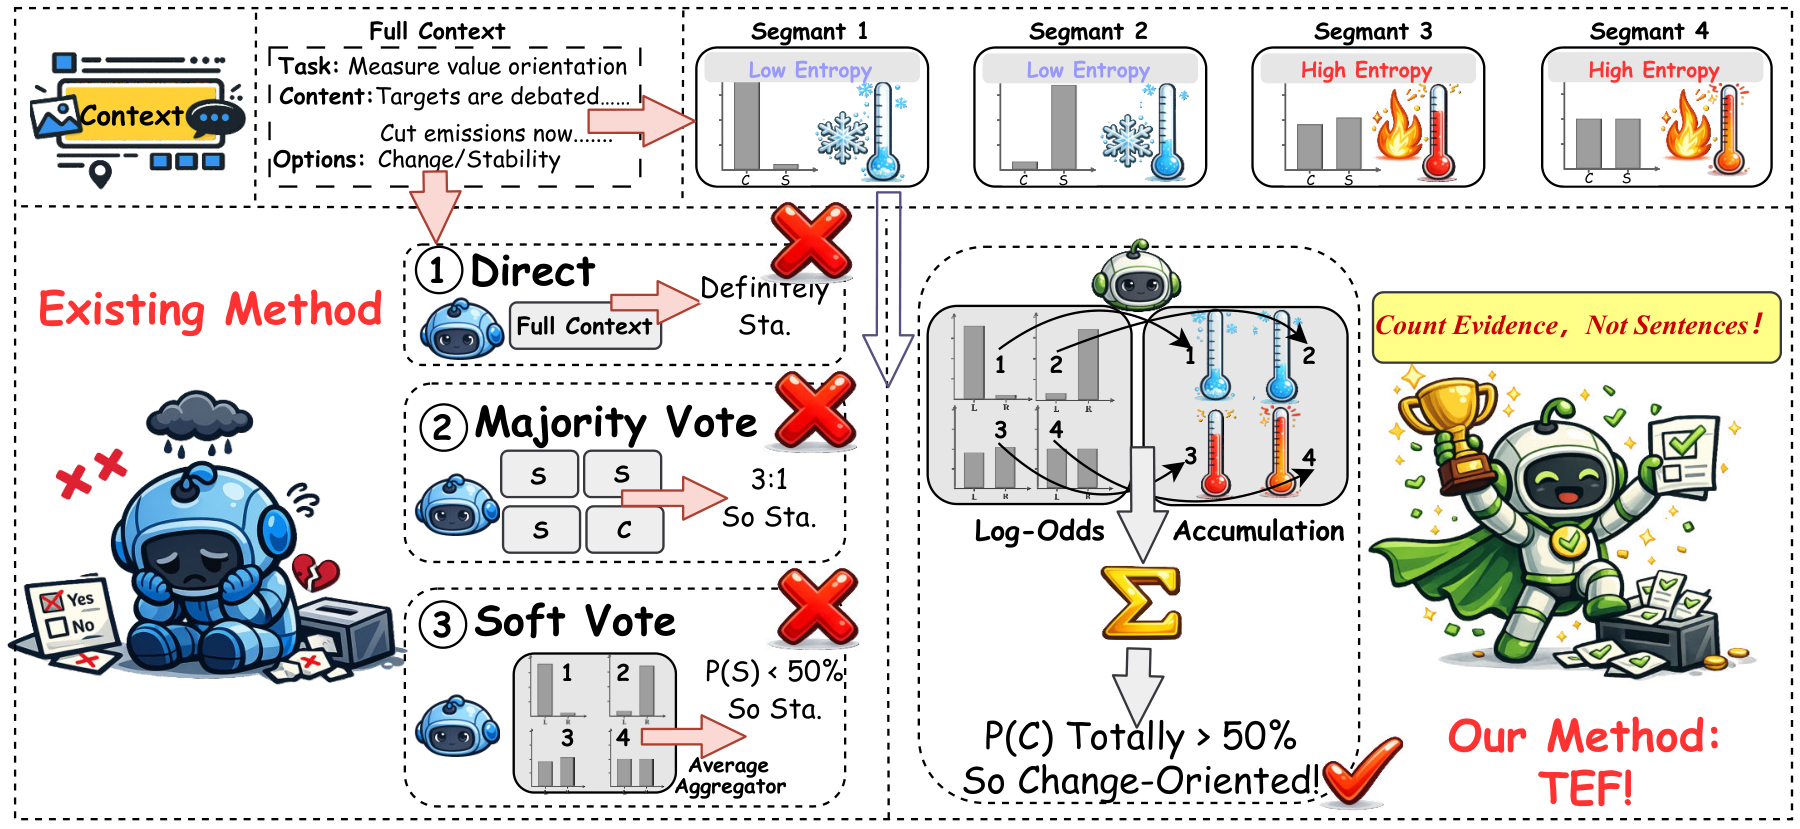
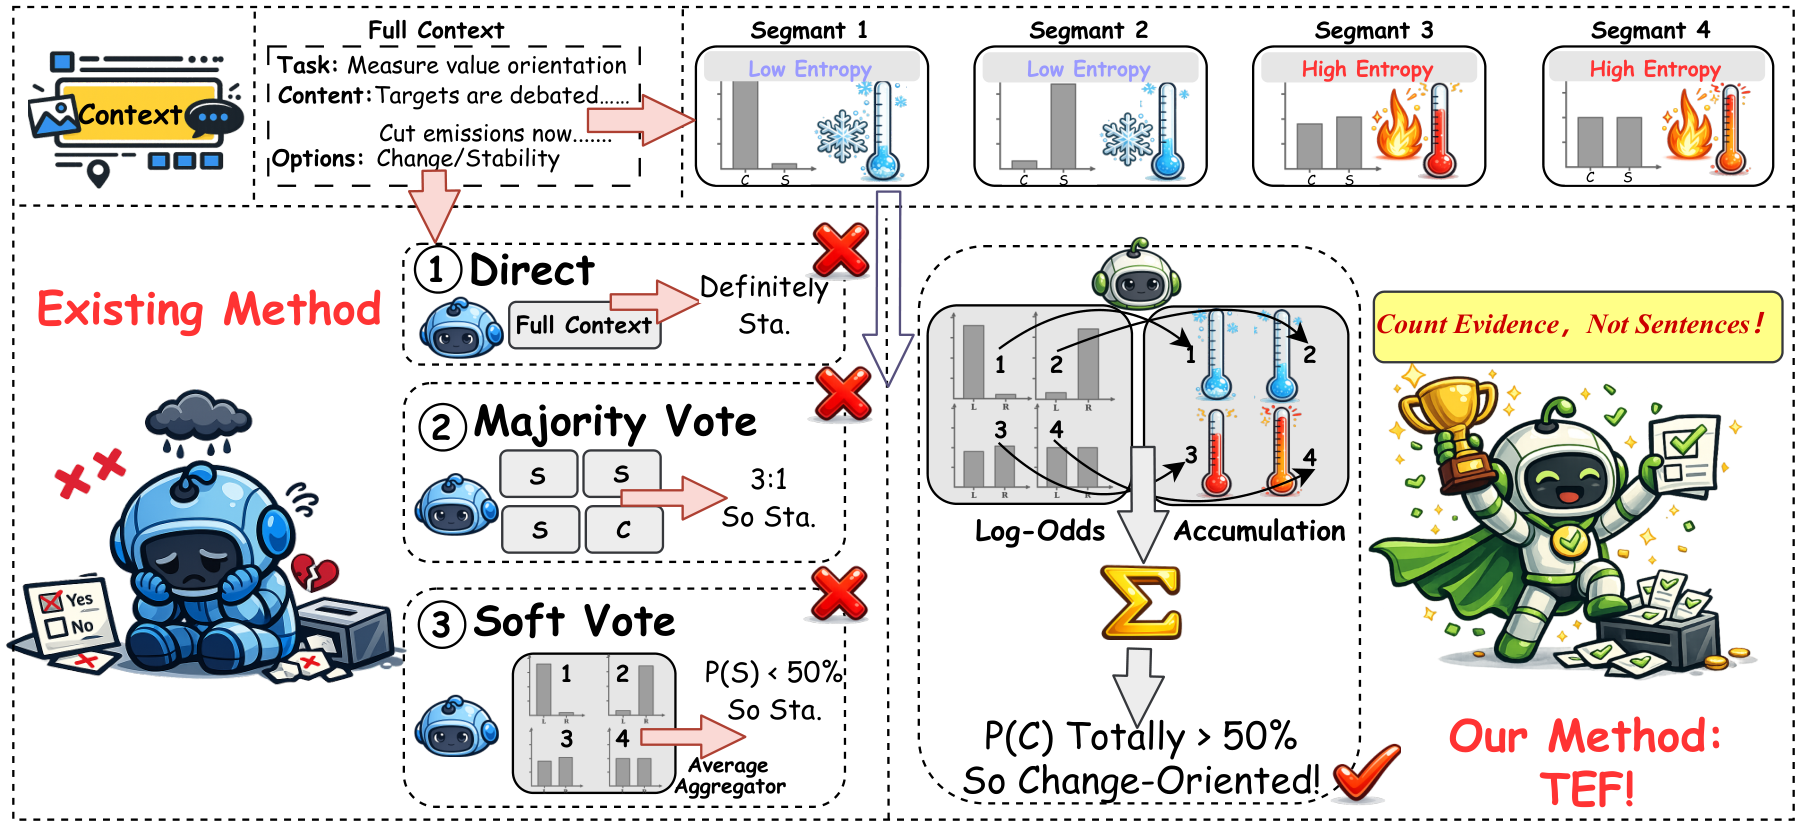
Sync README and figures with the current paper
Author list and affiliations as in the paper; venue label removed from the badges and the citation; teaser and construction figures replaced by the current versions; ablation description as in the paper.

diff --git a/README.md b/README.md
@@ -2,14 +2,13 @@
 
 # Count Evidence, Not Sentences: Tempered Evidence Fusion of LLM Judgments for Long-Text Value Measurement
 
-Yuhe Wu<sup>1,*</sup>, Rui Qian<sup>2,*</sup>, Guangyu Wang<sup>1,*</sup>, Yuran Chen<sup>3</sup>, Yujie Chen<sup>4</sup>, Jiaxin Liu<sup>1</sup>, Guang Zhang<sup>1,†</sup>
+Yuhe Wu<sup>1,*</sup>, Rui Qian<sup>2,*</sup>, Guangyu Wang<sup>1,*</sup>, Yuran Chen<sup>3</sup>, Yuanchao Zhu<sup>4</sup>, Junjie Yang<sup>5</sup>,<br>
+Zhengheng Li<sup>6</sup>, Jiulin Cai<sup>7</sup>, Tianyi Zhang<sup>8</sup>, Zihan Dong<sup>9</sup>, Jiaxin Liu<sup>1</sup>, Yujie Chen<sup>10</sup>, Guang Zhang<sup>1,†</sup>
 
-<sup>1</sup>The Hong Kong University of Science and Technology (Guangzhou) &nbsp; <sup>2</sup>Fudan University<br>
-<sup>3</sup>Dongbei University of Finance and Economics &nbsp; <sup>4</sup>The Chinese University of Hong Kong, Shenzhen
+<sup>1</sup>HKUST(GZ) &nbsp; <sup>2</sup>FDU &nbsp; <sup>3</sup>DUFE &nbsp; <sup>4</sup>UESTC &nbsp; <sup>5</sup>UMD &nbsp; <sup>6</sup>SEU &nbsp; <sup>7</sup>USTC &nbsp; <sup>8</sup>Independent &nbsp; <sup>9</sup>Georgia Tech &nbsp; <sup>10</sup>CUHK(SZ)
 
-<sup>*</sup>Equal contribution &nbsp; <sup>†</sup>Corresponding author: guangzhang@hkust-gz.edu.cn
+<sup>*</sup>Equal contribution &nbsp; <sup>†</sup>Corresponding author &nbsp; {yuhewu, guangzhang}@hkust-gz.edu.cn &nbsp; qiianruii@gmail.com
 
-[![ICASSP 2027](https://img.shields.io/badge/ICASSP%202027-Submission-1f6feb)](#citation)
 [![Dataset](https://img.shields.io/badge/Dataset-MIND-ff0080)](data/README.md)
 [![Code License](https://img.shields.io/badge/Code-MIT-2ea44f)](LICENSE)
 [![Data License](https://img.shields.io/badge/Data-CC%20BY--NC%204.0-lightgrey)](https://creativecommons.org/licenses/by-nc/4.0/)
@@ -374,8 +373,7 @@ MV and SV denote Majority Vote and Soft Vote. For each model and column, the bes
 <details>
 <summary><b>Ablation of TEF</b></summary>
 
-w/o Entropy removes the entropy weighting and keeps the log-odds sum; w/o Log-Odds replaces the log-odds by entropy-weighted
-probability averaging.
+w/o Entropy keeps only the log-odds sum; w/o Log-Odds averages entropy-weighted probabilities instead of log-odds.
 
 <table>
 <thead>
@@ -450,11 +448,11 @@ If you use TEF or MIND, please cite:
 
 ```bibtex
 @misc{wu2026count,
-  title  = {Count Evidence, Not Sentences: Tempered Evidence Fusion of {LLM} Judgments for Long-Text Value Measurement},
-  author = {Wu, Yuhe and Qian, Rui and Wang, Guangyu and Chen, Yuran and Chen, Yujie and Liu, Jiaxin and Zhang, Guang},
-  year   = {2026},
-  note   = {Submitted to IEEE International Conference on Acoustics, Speech and Signal Processing (ICASSP) 2027},
-  url    = {https://github.com/Kzczc/ICASSP2027-TEF}
+  title        = {Count Evidence, Not Sentences: Tempered Evidence Fusion of {LLM} Judgments for Long-Text Value Measurement},
+  author       = {Wu, Yuhe and Qian, Rui and Wang, Guangyu and Chen, Yuran and Zhu, Yuanchao and Yang, Junjie and
+                  Li, Zhengheng and Cai, Jiulin and Zhang, Tianyi and Dong, Zihan and Liu, Jiaxin and Chen, Yujie and Zhang, Guang},
+  year         = {2026},
+  howpublished = {\url{https://github.com/Kzczc/ICASSP2027-TEF}}
 }
 ```
 
